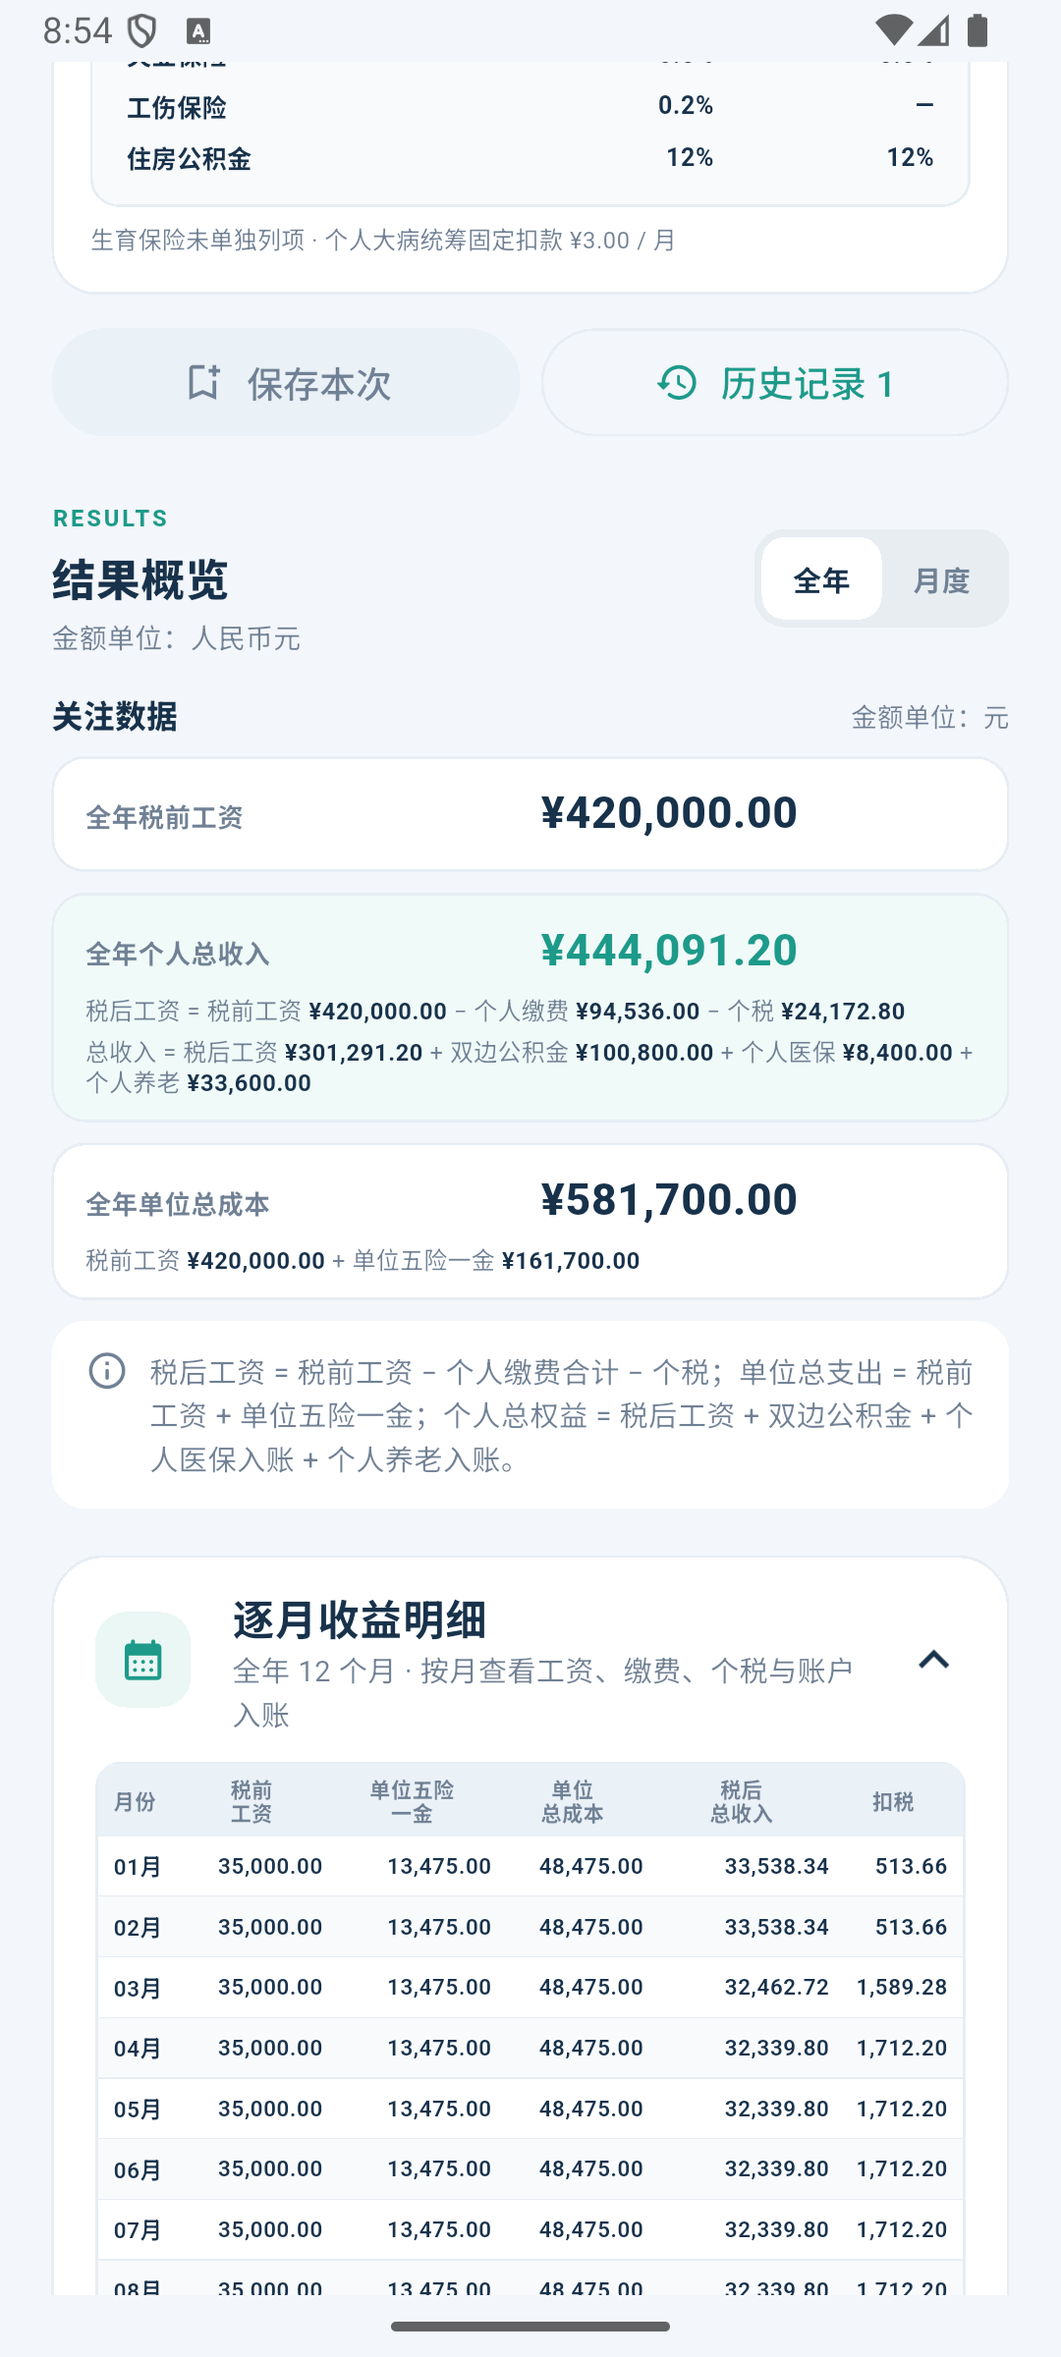
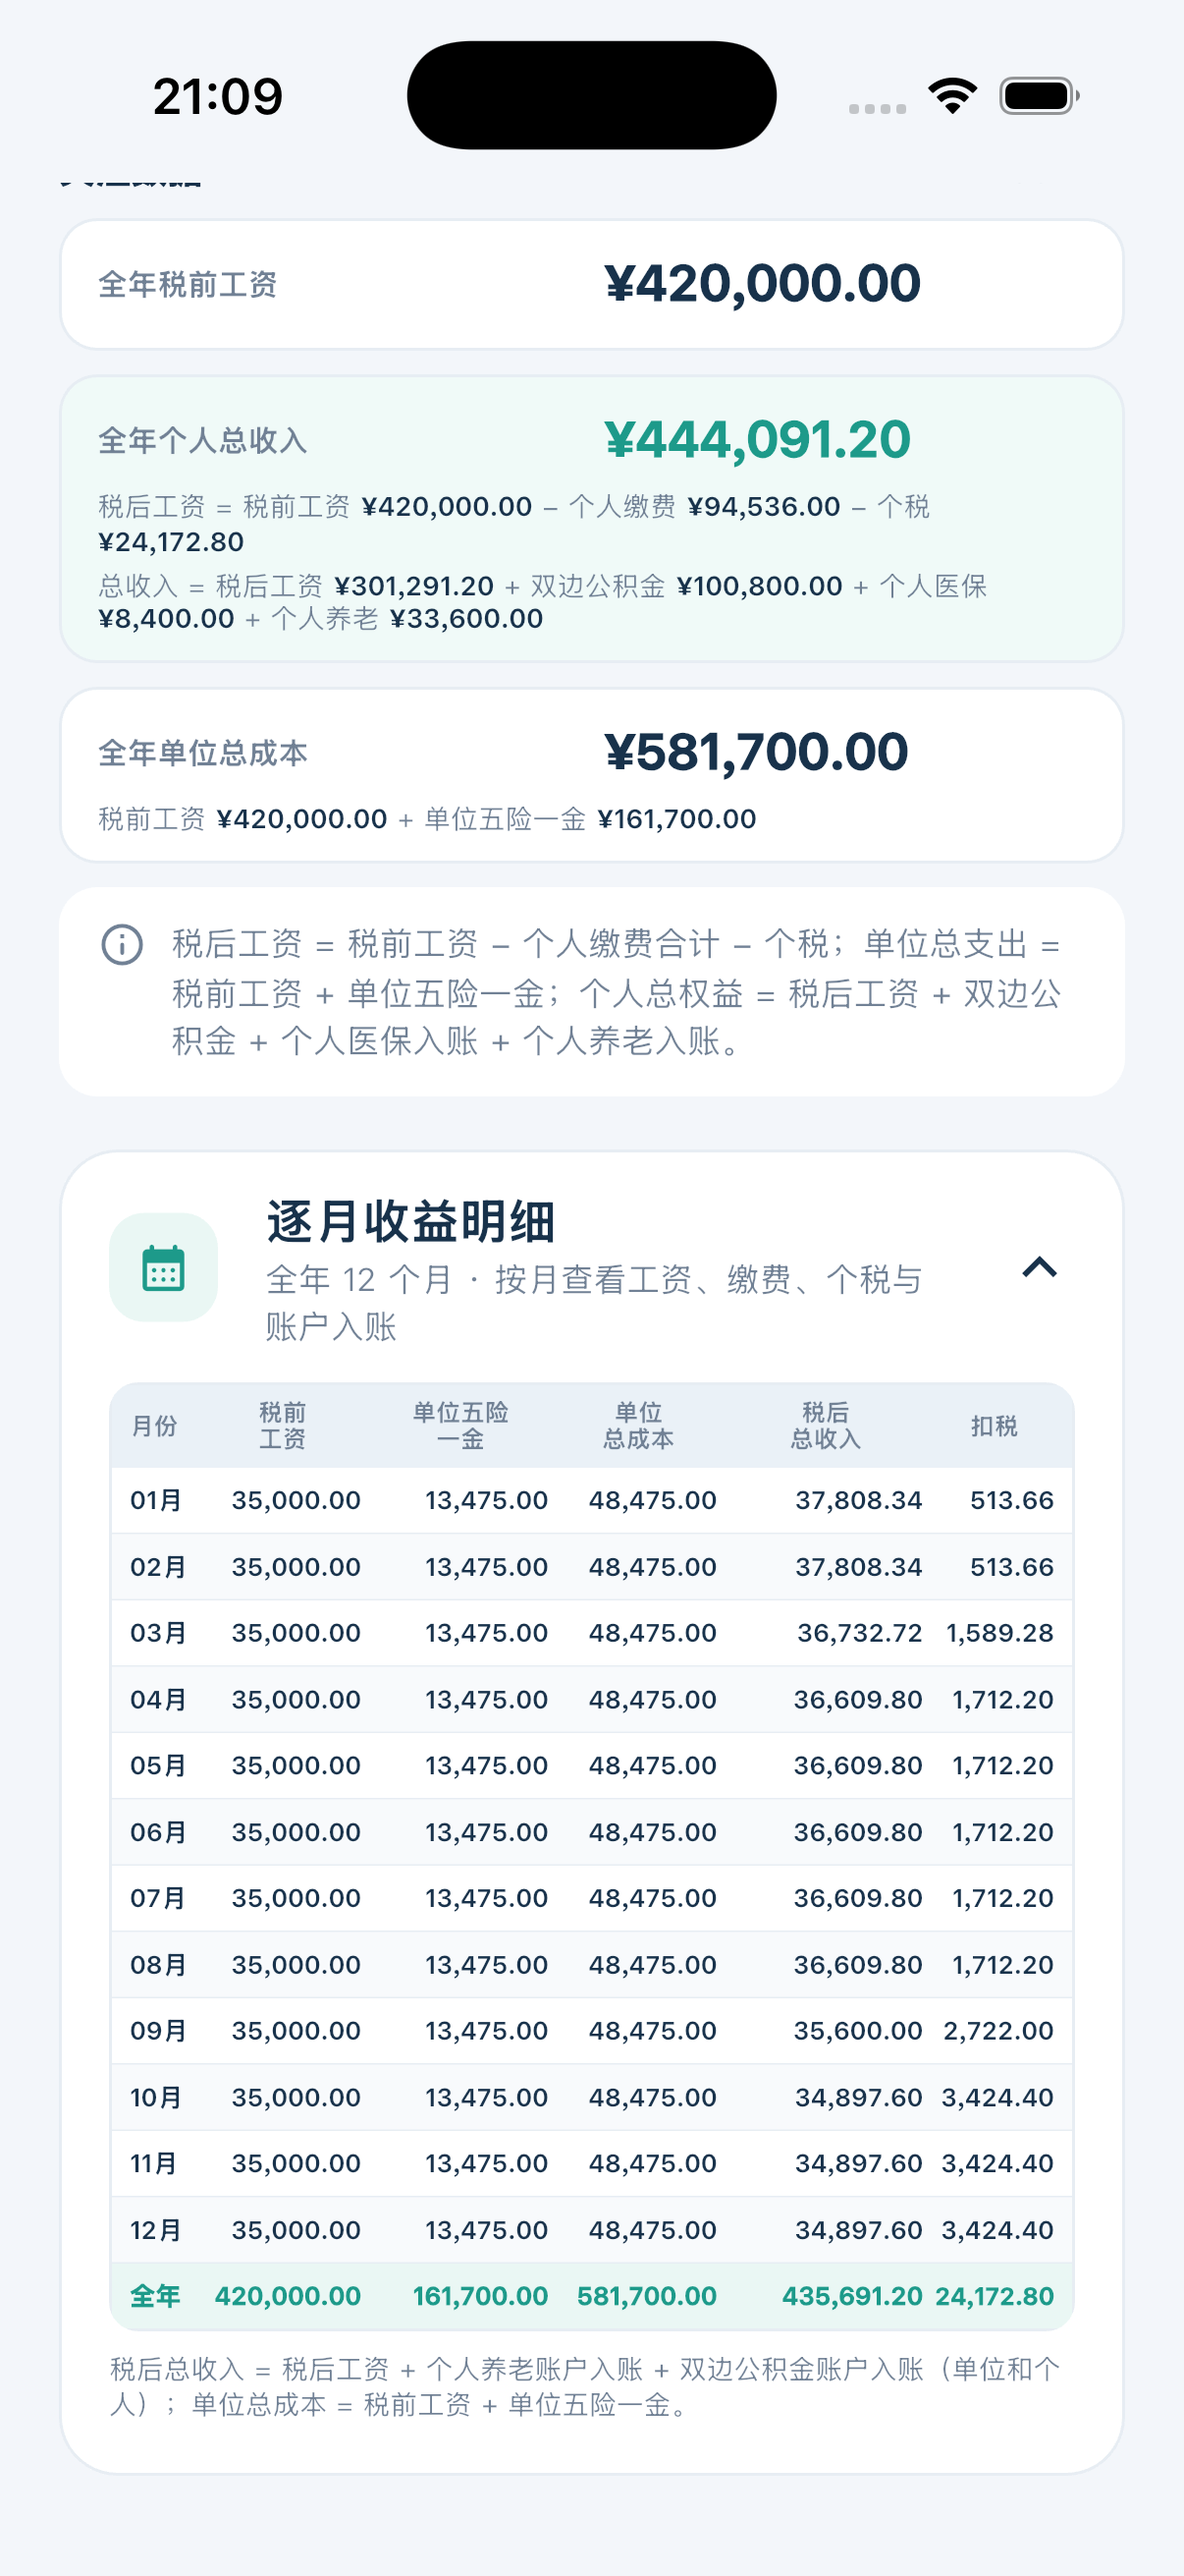
Correct after-tax total income formula

diff --git a/lib/features/calculator/income_breakdown_widgets.dart b/lib/features/calculator/income_breakdown_widgets.dart
@@ -8,11 +8,17 @@ const Color _incomeTeal = Color(0xFF1D9A8A);
 const Color _incomeMuted = Color(0xFF718195);
 const Color _incomeLine = Color(0xFFE7EDF3);
 
+int _taxAfterTotalIncomeForMonth(MonthlyCalculationResult month) =>
+    month.netCashCents +
+    month.employeePensionCents +
+    month.employerHousingFundCents +
+    month.employeeHousingFundCents;
+
 class IncomeTotals {
   const IncomeTotals({
     required this.grossSalaryCents,
     required this.netSalaryCents,
-    required this.personalAfterTaxIncomeCents,
+    required this.taxAfterTotalIncomeCents,
     required this.taxCents,
     required this.employerContributionCents,
     required this.personalContributionCents,
@@ -26,7 +32,7 @@ class IncomeTotals {
   factory IncomeTotals.fromMonths(Iterable<MonthlyCalculationResult> months) {
     int grossSalary = 0;
     int netSalary = 0;
-    int personalAfterTaxIncome = 0;
+    int taxAfterTotalIncome = 0;
     int tax = 0;
     int employerContribution = 0;
     int personalContribution = 0;
@@ -39,11 +45,7 @@ class IncomeTotals {
     for (final MonthlyCalculationResult month in months) {
       grossSalary += month.salaryCents;
       netSalary += month.netCashCents;
-      personalAfterTaxIncome +=
-          month.netCashCents +
-          month.employeePensionCents +
-          month.employerMedicalCents +
-          month.employeeMedicalCents;
+      taxAfterTotalIncome += _taxAfterTotalIncomeForMonth(month);
       tax += month.monthlyTaxCents;
       employerContribution +=
           month.employerSocialTotalCents + month.employerHousingFundCents;
@@ -59,7 +61,7 @@ class IncomeTotals {
     return IncomeTotals(
       grossSalaryCents: grossSalary,
       netSalaryCents: netSalary,
-      personalAfterTaxIncomeCents: personalAfterTaxIncome,
+      taxAfterTotalIncomeCents: taxAfterTotalIncome,
       taxCents: tax,
       employerContributionCents: employerContribution,
       personalContributionCents: personalContribution,
@@ -73,7 +75,7 @@ class IncomeTotals {
 
   final int grossSalaryCents;
   final int netSalaryCents;
-  final int personalAfterTaxIncomeCents;
+  final int taxAfterTotalIncomeCents;
   final int taxCents;
   final int employerContributionCents;
   final int personalContributionCents;
@@ -343,7 +345,7 @@ class MonthlyIncomeTable extends StatelessWidget {
                   ),
                   formatCents(totals.employerTotalCostCents, withSymbol: false),
                   formatCents(
-                    totals.personalAfterTaxIncomeCents,
+                    totals.taxAfterTotalIncomeCents,
                     withSymbol: false,
                   ),
                   formatCents(totals.taxCents, withSymbol: false),
@@ -355,7 +357,7 @@ class MonthlyIncomeTable extends StatelessWidget {
         ),
         SizedBox(height: compact ? 4 : 7),
         Text(
-          '税后总收入 = 税后工资 + 个人养老账户入账 + 双边医保账户入账（单位和个人）；单位总成本 = 税前工资 + 单位五险一金。',
+          '税后总收入 = 税后工资 + 个人养老账户入账 + 双边公积金账户入账（单位和个人）；单位总成本 = 税前工资 + 单位五险一金。',
           style: TextStyle(
             color: _incomeMuted,
             fontSize: compact ? 7 : 9,
@@ -375,10 +377,7 @@ class MonthlyIncomeTable extends StatelessWidget {
     ),
     formatCents(month.employerTotalCostCents, withSymbol: false),
     formatCents(
-      month.netCashCents +
-          month.employeePensionCents +
-          month.employerMedicalCents +
-          month.employeeMedicalCents,
+      _taxAfterTotalIncomeForMonth(month),
       withSymbol: false,
     ),
     formatCents(month.monthlyTaxCents, withSymbol: false),

diff --git a/lib/features/calculator/calculation_history_screen.dart b/lib/features/calculator/calculation_history_screen.dart
@@ -259,7 +259,7 @@ class _HistoryCard extends StatelessWidget {
                     Expanded(
                       child: _HistoryMetric(
                         label: '税后总收入',
-                        amountCents: totals.personalAfterTaxIncomeCents,
+                        amountCents: totals.taxAfterTotalIncomeCents,
                         accent: true,
                       ),
                     ),

diff --git a/README.md b/README.md
@@ -10,7 +10,7 @@
 | --- | --- | --- | --- |
 | <img src="screenshots/calculator.png" alt="首页当前薪资方案、全年结果和截图分享入口" width="190"> | <img src="screenshots/monthly-expanded.png" alt="首页逐月收入表格，显示税前工资、单位五险一金、单位总成本、税后总收入和扣税" width="190"> | <img src="screenshots/contribution-rates.png" alt="单位和个人固定缴费比例" width="190"> | <img src="screenshots/calculation-history.png" alt="历史测算列表，显示薪资方案条件和五项年度汇总" width="190"> |
 
-以上页面使用当前代码在 Android 15 模拟器上重新截取。首页和历史详情的逐月表格采用一致的五项数据：税前工资、单位五险一金、单位总成本、税后总收入、扣税。其中税后总收入 = 税后工资 + 个人养老账户入账 + 双边医保账户入账（单位和个人）。首页使用 ¥35,000 月薪、¥5,000 专项附加扣除的演示方案；历史列表展示已保存的方案条件和年度汇总。
+首页、逐月表格、历史测算和分享长图已用当前代码在 iPhone 17 Pro（iOS 26.5）模拟器重新截取。首页和历史详情的逐月表格采用一致的五项数据：税前工资、单位五险一金、单位总成本、税后总收入、扣税。其中税后总收入 = 税后工资 + 个人养老账户入账 + 双边公积金账户入账（单位和个人）。演示方案为月薪 ¥35,000、专项附加扣除 ¥5,000；历史列表展示已保存的方案条件和年度汇总。
 
 **薪酬方案分享图片示例**
 
@@ -41,7 +41,7 @@
 - **国家规则速查**：专项附加扣除、公积金比例、公积金基数和工伤费率旁的信息按钮可打开 Markdown 规则说明，并通过官方链接查看完整政策。
 - **便捷键盘操作**：点击页面空白区域即可收起输入键盘。
 - **灵活设置缴费基数**：社保基数可以跟随工资，也可以自定义；应用不会自动套用地区缴费上下限。
-- **查看全年或逐月结果**：首页和历史结果详情使用统一的逐月表格，列出税前工资、单位五险一金、单位总成本、税后总收入和扣税，并显示全年合计。税后总收入按“税后工资 + 个人养老账户入账 + 双边医保账户入账（单位和个人）”计算。历史详情还可展开逐月扣税依据，查看个人缴费、累计扣除、适用税率档位和预扣税。
+- **查看全年或逐月结果**：首页和历史结果详情使用统一的逐月表格，列出税前工资、单位五险一金、单位总成本、税后总收入和扣税，并显示全年合计。税后总收入按“税后工资 + 个人养老账户入账 + 双边公积金账户入账（单位和个人）”计算。历史详情还可展开逐月扣税依据，查看个人缴费、累计扣除、适用税率档位和预扣税。
 - **拆分权益账户入账**：在结果页和历史结果概览中分别查看双边公积金、个人医保账户及个人养老账户入账金额。
 - **逐月收入表格**：首页和历史详情使用相同的紧凑表格展示每月五项关键数据；逐月扣税依据单独折叠，展开后查看累计预扣计算过程。
 - **拆解收入与缴费**：展开“计算依据”查看个人扣款、单位缴费、累计应税收入、预扣税额和综合到手组成。个人失业保险和大病统筹属于扣款，不计入综合到手。
@@ -60,7 +60,7 @@
 | 公积金比例 | 12%（单位和个人各缴一份） |
 | 工伤保险费率 | 默认 0.2%（可自定义） |
 
-固定月薪按完整 12 个月测算。默认参数下，全年单位成本为 **¥581,700.00**，全年税后工资为 **¥301,291.20**，全年综合到手为 **¥410,491.20**，全年综合到手 + 养老为 **¥444,091.20**，全年预扣个税为 **¥24,172.80**。
+固定月薪按完整 12 个月测算。默认参数下，全年单位成本为 **¥581,700.00**，全年税后工资为 **¥301,291.20**，全年税后总收入为 **¥435,691.20**，全年综合到手为 **¥410,491.20**，全年综合到手 + 养老为 **¥444,091.20**，全年预扣个税为 **¥24,172.80**。
 
 ## 计算口径与适用范围
 
